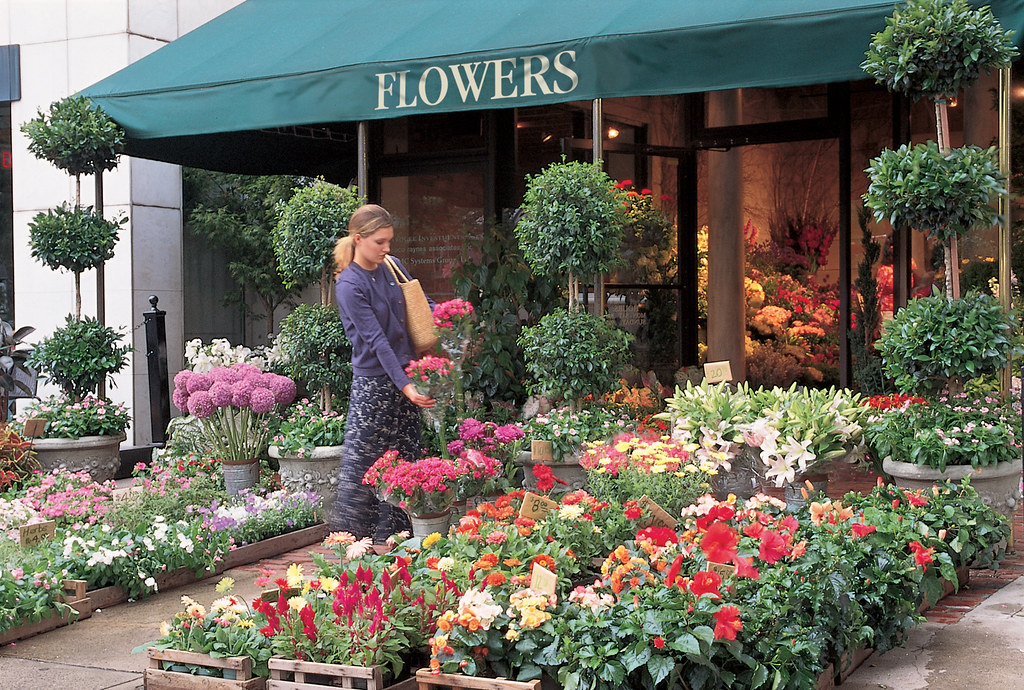
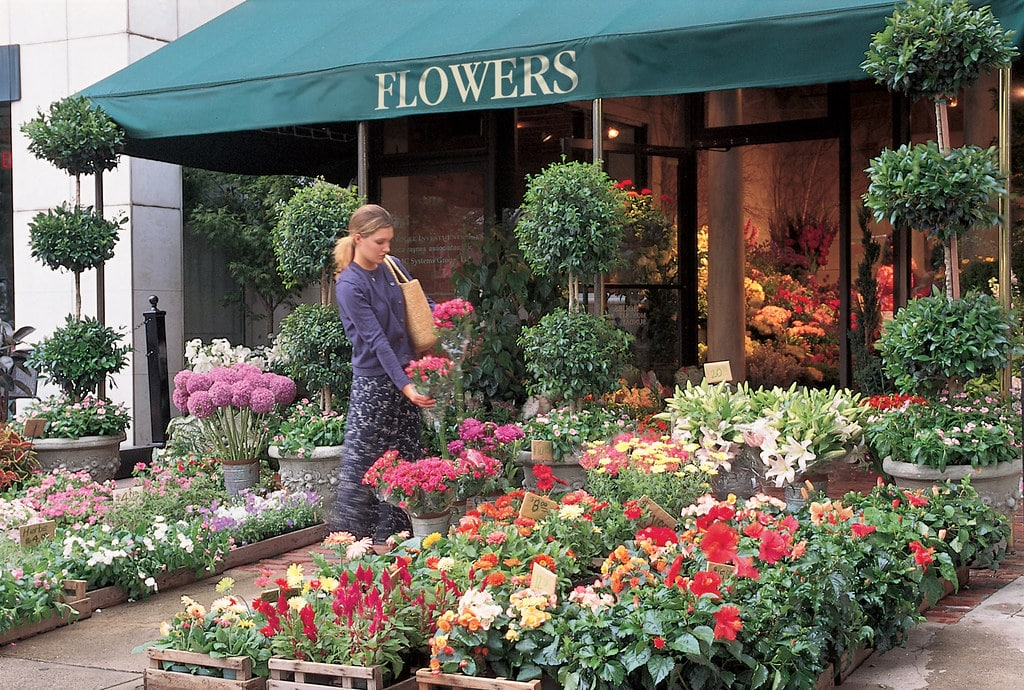
fix

diff --git a/chamber/index.html b/chamber/index.html
@@ -38,15 +38,15 @@
     </header>
     <main>
         <section class="hero">
-            <img src="images/wdd230-org1000.jpg" alt="Image of Mt. Nebo" sizes="100vw" 
-            srcset="images/wdd230-org550.jpg 850w,
-            images/wdd230-org800.jpg 1020w,
-            images/wdd230-org1000.jpg 1700w">
+            <img src="images/wdd230-org1000.webp" alt="Image of Mt. Nebo" sizes="100vw" 
+            srcset="images/wdd230-org550.webp 850w,
+            images/wdd230-org800.webp 1020w,
+            images/wdd230-org1000.webp 1700w">
             <h2>The local commerce for all the businesses in the nebo basin</h2>
         </section>
         <section class="event">
             <h2>Annual Zions Bank 5k</h2>
-            <img src="images/runner.jpg" alt="An image of a group of people running">
+            <img src="images/runner.webp" alt="An image of a group of people running">
             <p>
                 Join Zion Bank's 5k on Marchtember 1th. This is an annual even hosted by the Nephi branch of the zions national bank. All the proceeds are donated to the Juab County food bank. Come for food, fun and the run!
             </p>
@@ -74,19 +74,19 @@
             <h2>Business Spotlights</h2>
             <div class="spotlight" id="spotlight1">
                 <h3>Darla's Darlin' Daisies</h3>
-                <img src="images/flowers.jpg" alt="Flowershop image">
+                <img src="images/flowers.webp" alt="Flowershop image">
                 <p>Check out the newest flowershop in the nebo area!</p>
                 <p>123 N Main St. Levan</p>
             </div>
             <div class="spotlight" id="spotlight2">
                 <h3>Gordios Gumbo Gondolas</h3>
-                <img src="images/gondola.jpg" alt="Romantic gondala over snowy mountain">
+                <img src="images/gondola.webp" alt="Romantic gondala over snowy mountain">
                 <p>Want a romantic evening and unique cuisine? Look no further than Gordios Gondolas, a repurposed ski gondola line on the backside of our Mt. Nebo!</p>
                 <p>19567 Gondola Rd. Mona</p>
             </div>
             <div class="spotlight" id="spotlight3">
                 <h3>Bart's Brews</h3>
-                <img src="images/dancing.jpg" alt="Swing dancing couple">
+                <img src="images/dancing.webp" alt="Swing dancing couple">
                 <p>Enjoy a night out on the town at Barts Brews. The newest hit on historic main! Catch live music and dancing from local and imported country legends.</p>
                 <p>435 S Main St. Nephi</p>
             </div>
